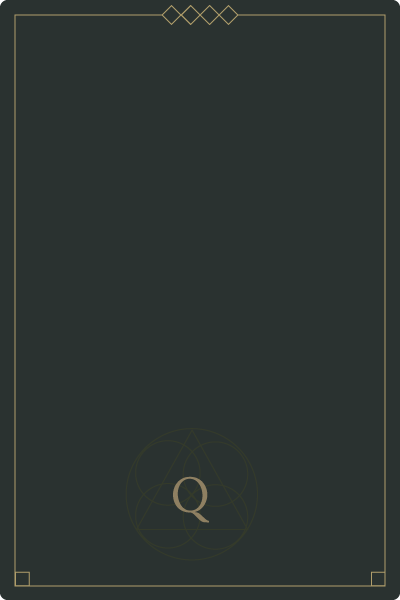
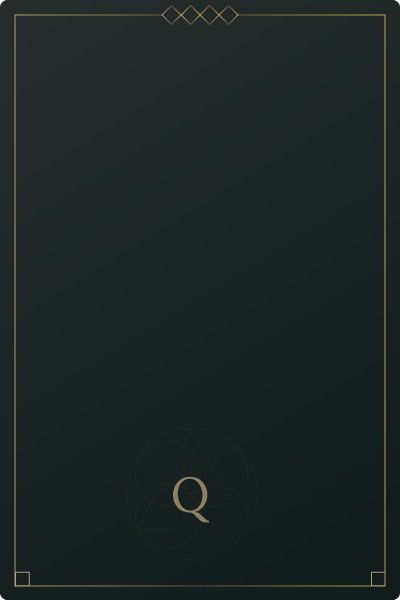
- Updated quest card bg and added rarity classes

diff --git a/src/app/components/quest-generator/quest/quest.component.html b/src/app/components/quest-generator/quest/quest.component.html
@@ -42,10 +42,10 @@
 
         <ng-template #rarityTemplate let-rarity="rarity">
             <!-- <p>{{ rarity }}</p> -->
-            <img class="rarity-img" *ngIf="rarity > 6" src="../../../../assets/quest/quest_icon_common.png">
-            <img class="rarity-img" *ngIf="rarity > 3 && rarity < 7" src="../../../../assets/quest/quest_icon_rare.png">
-            <img class="rarity-img" *ngIf="rarity > 1 && rarity < 4" src="../../../../assets/quest/quest_icon_exotic.png">
-            <img class="rarity-img" *ngIf="rarity == 1" src="../../../../assets/quest/quest_icon_legendary.png">
+            <img class="rarity-img common" *ngIf="rarity > 6" src="../../../../assets/quest/quest_icon_common.png">
+            <img class="rarity-img rare" *ngIf="rarity > 3 && rarity < 7" src="../../../../assets/quest/quest_icon_rare.png">
+            <img class="rarity-img exotic" *ngIf="rarity > 1 && rarity < 4" src="../../../../assets/quest/quest_icon_exotic.png">
+            <img class="rarity-img legendary" *ngIf="rarity == 1" src="../../../../assets/quest/quest_icon_legendary.png">
         </ng-template>
 
         <!-- <div id="download">

diff --git a/src/app/components/quest-generator/quest/quest.component.scss b/src/app/components/quest-generator/quest/quest.component.scss
@@ -35,7 +35,15 @@
                 .rarity-container {
                     .rarity-img {
                         display: inline-block;
-                        width: 15px;
+                        width: 23px;
+
+                        &.common {
+                            width: 9px;
+                        }
+
+                        &.legendary {
+                            width: 15px;
+                        }
                     }
                 }
             }
